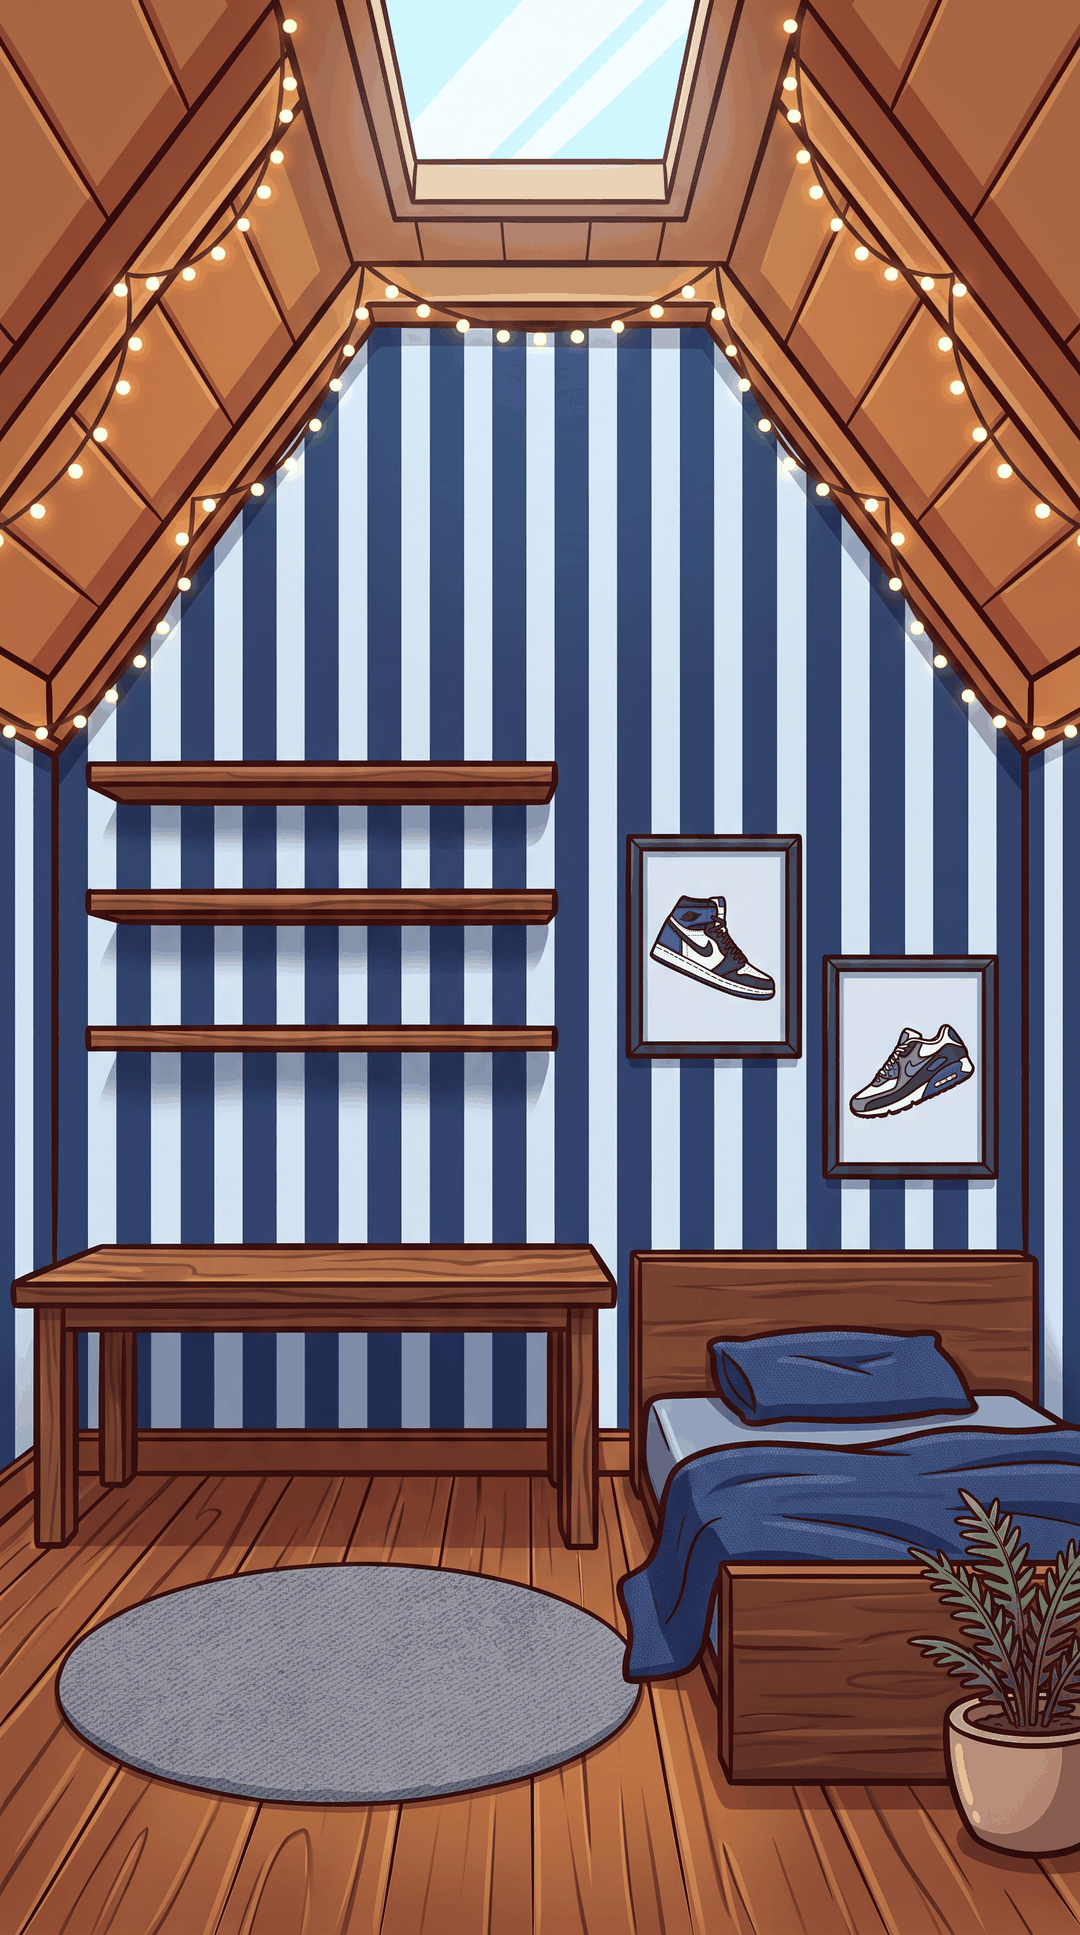
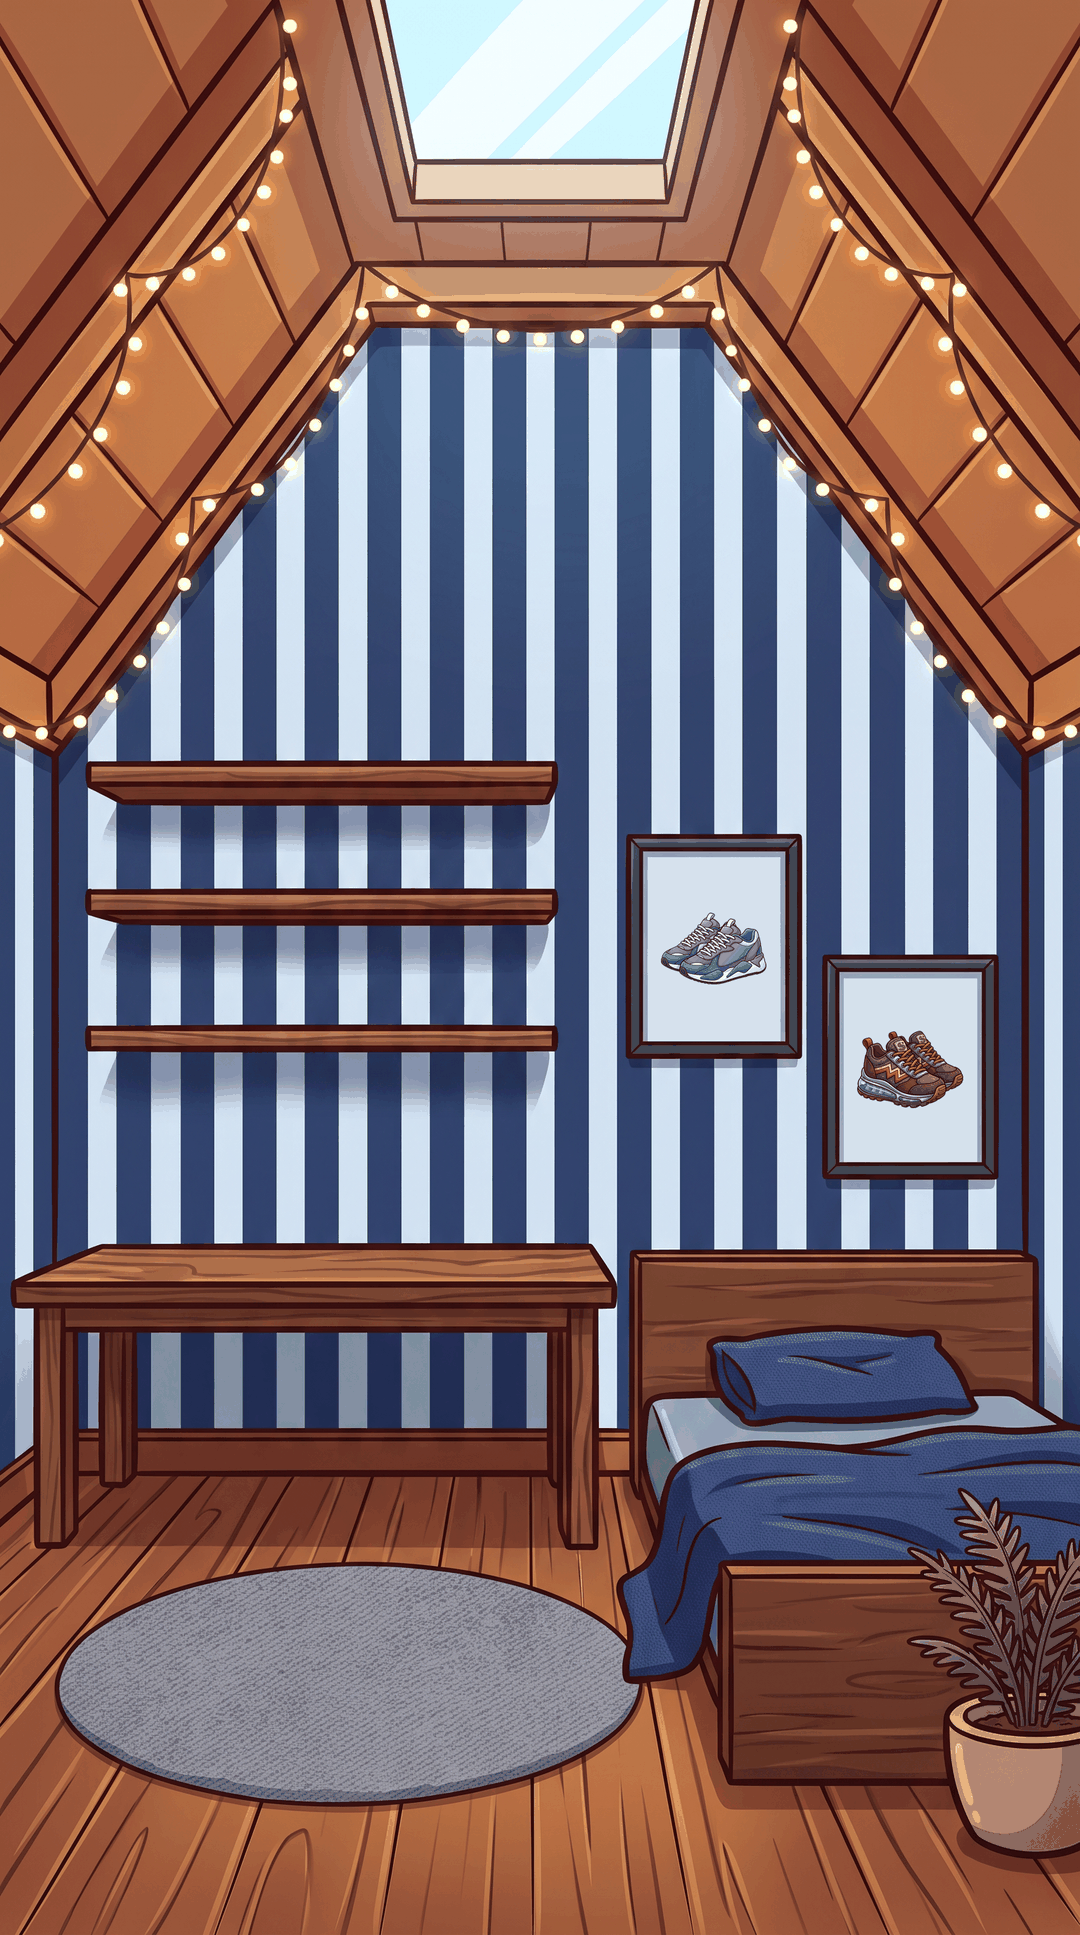
Appart : les trophées s'exposent sur les étagères (places libres) ; chambre refaite sans baskets de marque dans les cadres

Changed region(s): [[0.8556, 0.7752, 1.0, 0.8992], [0.7639, 0.5271, 0.9167, 0.5891], [0.6111, 0.4651, 0.7333, 0.5271]]

diff --git a/js/ui.js b/js/ui.js
@@ -853,14 +853,16 @@
   function renderAppart() {
     const s = st(), R = RP.on ? RP.room : s.room, r = D.ROOMS[R], el = $('#scene-appart');
     const rig = G.rigInfo();
-    const owned = []; Object.entries(s.owned).forEach(([id, a]) => { const it = G.item(id); if (G.placeOf(id) === 'shelf') a.forEach(() => owned.push(it)); });
-    owned.sort((a, b) => G.sellPrice(b.id) - G.sellPrice(a.id));
+    const owned = [], troph = []; Object.entries(s.owned).forEach(([id, a]) => { const it = G.item(id), pl = G.placeOf(id); if (pl === 'shelf') a.forEach(() => owned.push(it)); else if (pl === 'vitrine' && a.length) troph.push(it); });
+    owned.sort((a, b) => G.sellPrice(b.id) - G.sellPrice(a.id)); troph.sort((a, b) => G.sellPrice(b.id) - G.sellPrice(a.id));
+    // les trophées s'exposent aussi sur les étagères, dans les places libres (ils ne prennent jamais la place d'un objet)
+    const onShelf = owned.slice(0, r.slots).concat(troph).slice(0, r.slots);
     const sk = D.SKINS.find(k => k.id === s.skin) || D.SKINS[0], gg = (RP.on && RP.g) || sk.g, rb = has(`room-${gg}-${R}`) ? `room-${gg}-${R}` : 'room-' + R;
     const rl = RP.on ? RP.pv.rig : s.rig.lvl, pl = RP.on ? RP.pv.pc : G.pcLvl();
     const L = RP.on ? RP.L : roomLayout(R), rigImg = has('minerv-' + rl) ? 'minerv-' + rl : 'rig-' + rl, pcImg = has('pcv-' + pl) ? 'pcv-' + pl : 'pc-' + pl;
     const place = o => `left:${o.x}%;top:${o.y}%;width:${o.w}%`;
     const shelf = L.slots.slice(0, r.slots).map(([x, y], i) => {
-      const it = owned[i];
+      const it = onShelf[i];
       if (RP.on) return `<span class="shelf-item rp-slot ${RP.sel === 'slot' + i || RP.sel === 'shelf' ? 'sel' : ''}" data-rp="slot${i}" style="left:${x}%;top:${y}%;width:${L.shelf.w}%;height:${L.shelf.h}%">${it ? pic('item-' + it.id, D.ITEM_CATS[it.cat].icon) : `<em>${i + 1}</em>`}</span>`;
       return it ? `<button class="shelf-item" data-act="itemInfo" data-id="${it.id}" style="left:${x}%;top:${y}%;width:${L.shelf.w}%;height:${L.shelf.h}%">${pic('item-' + it.id, D.ITEM_CATS[it.cat].icon)}</button>` : '';
     }).join('');
@@ -873,12 +875,12 @@
     const pcBubble = cv >= .01
       ? `<button class="obj-bubble ${diff >= 0 ? 'up' : 'down'}" data-act="pc"><span><small>Tes cryptos</small><b>${short(cv)} <em>${diff >= 0 ? '▲' : '▼'} ${short(Math.abs(diff), true)}</em></b></span></button>`
       : `<button class="obj-bubble" data-act="pc"><span><small>Mon PC</small><b>Investir</b></span></button>`;
-    const iv = owned.reduce((a, it) => a + G.sellPrice(it.id), 0);
+    const iv = owned.concat(troph).reduce((a, it) => a + G.sellPrice(it.id), 0);
     el.innerHTML = `
       <div class="room-stage">
         ${has(rb) ? `<img class="room-bg" src="${src(rb)}" alt="">` : `<div class="room-fallback r${s.room}"></div>`}
         ${shelf}
-        ${owned.length ? `<div class="bubble-at" data-for="shelf"><button class="obj-bubble shelf-b" data-act="collectionInfo"><span><small>Ta collection</small><b>${short(iv)}</b></span></button></div>` : ''}
+        ${onShelf.length ? `<div class="bubble-at" data-for="shelf"><button class="obj-bubble shelf-b" data-act="collectionInfo"><span><small>Ta collection</small><b>${short(iv)}</b></span></button></div>` : ''}
         <button class="room-obj ${L.pc.flip ? 'flip' : ''} ${RP.on && RP.sel === 'pc' ? 'rp-sel' : ''}" data-act="${RP.on ? 'noop' : 'pc'}" data-rp="pc" style="${place(L.pc)};transform:translate(-50%, ${-(1 - (D.PC_DROP[pl] || 0)) * 100}%)">${pic(pcImg, EMO.pc)}</button>
         <div class="bubble-at" data-for="pc">${pcBubble}</div>
         ${has(rb + '-fg') ? `<img class="room-fg" src="${src(rb + '-fg')}" alt="">` : ''}

diff --git a/game.html b/game.html
@@ -106,7 +106,7 @@
   // Chargement du jeu. En local : les fichiers du dossier. Mis à jour depuis internet (index.html) : le code vient
   // de raw.githubusercontent (rapide et toujours à jour), les images du dossier local quand on joue sur son ordi.
   (function () {
-    var V = '?v=306', FILES = ['js/layout.js', 'js/data.js', 'js/content.js', 'js/assets.js', 'js/game.js', 'js/audio.js', 'js/ui.js', 'js/casino.js', 'js/scratch.js', 'js/balto.js', 'js/agence.js', 'js/tuto.js', 'js/online.js', 'js/push.js'].slice(), CSS = 'css/style.css';
+    var V = '?v=307', FILES = ['js/layout.js', 'js/data.js', 'js/content.js', 'js/assets.js', 'js/game.js', 'js/audio.js', 'js/ui.js', 'js/casino.js', 'js/scratch.js', 'js/balto.js', 'js/agence.js', 'js/tuto.js', 'js/online.js', 'js/push.js'].slice(), CSS = 'css/style.css';
     var m = document.baseURI.match(/^https:\/\/cdn\.jsdelivr\.net\/gh\/([^@]+)@([^/]+)\//);
     if (!m) {
       document.write('<link rel="stylesheet" href="' + CSS + V + '">');
